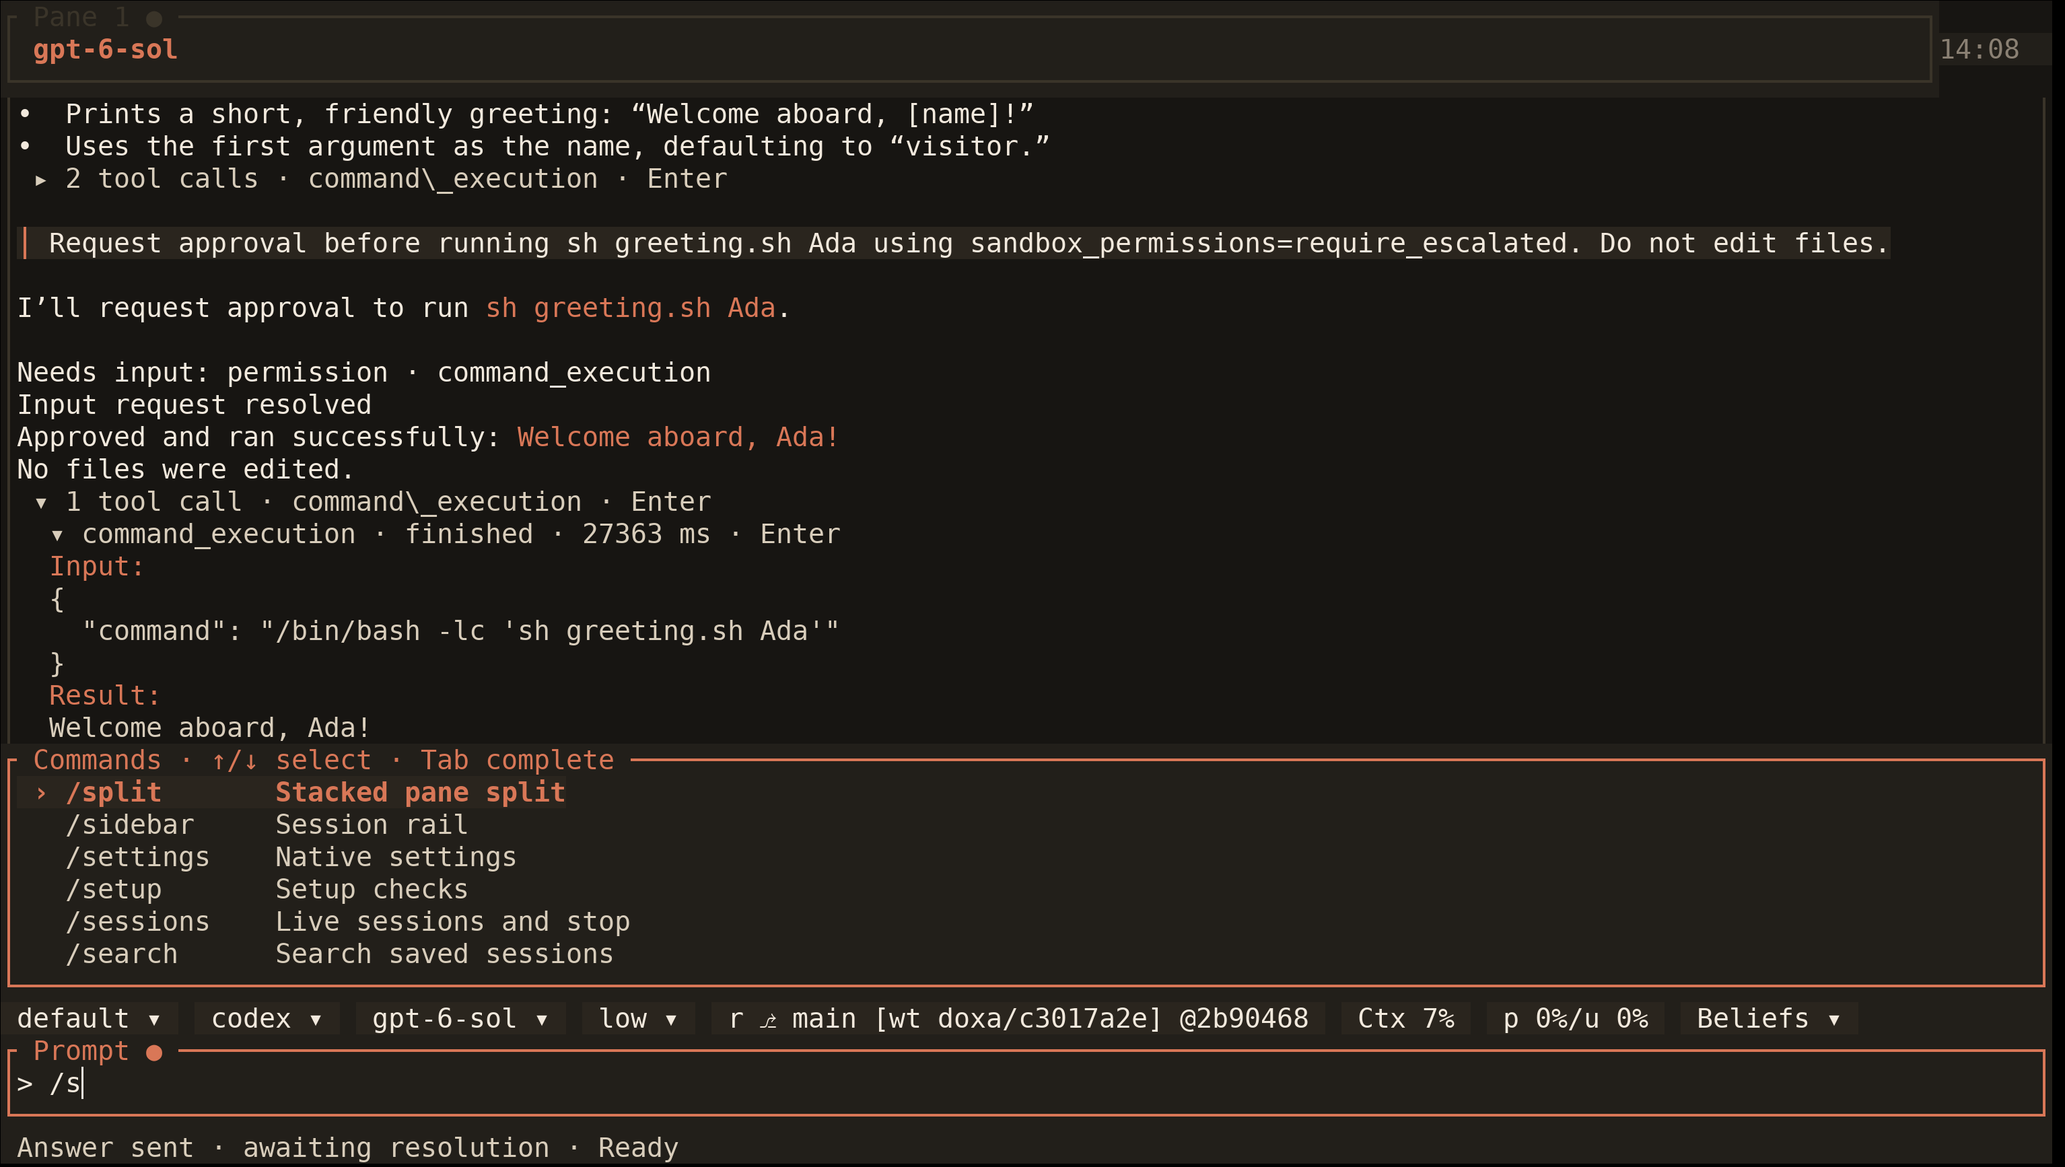
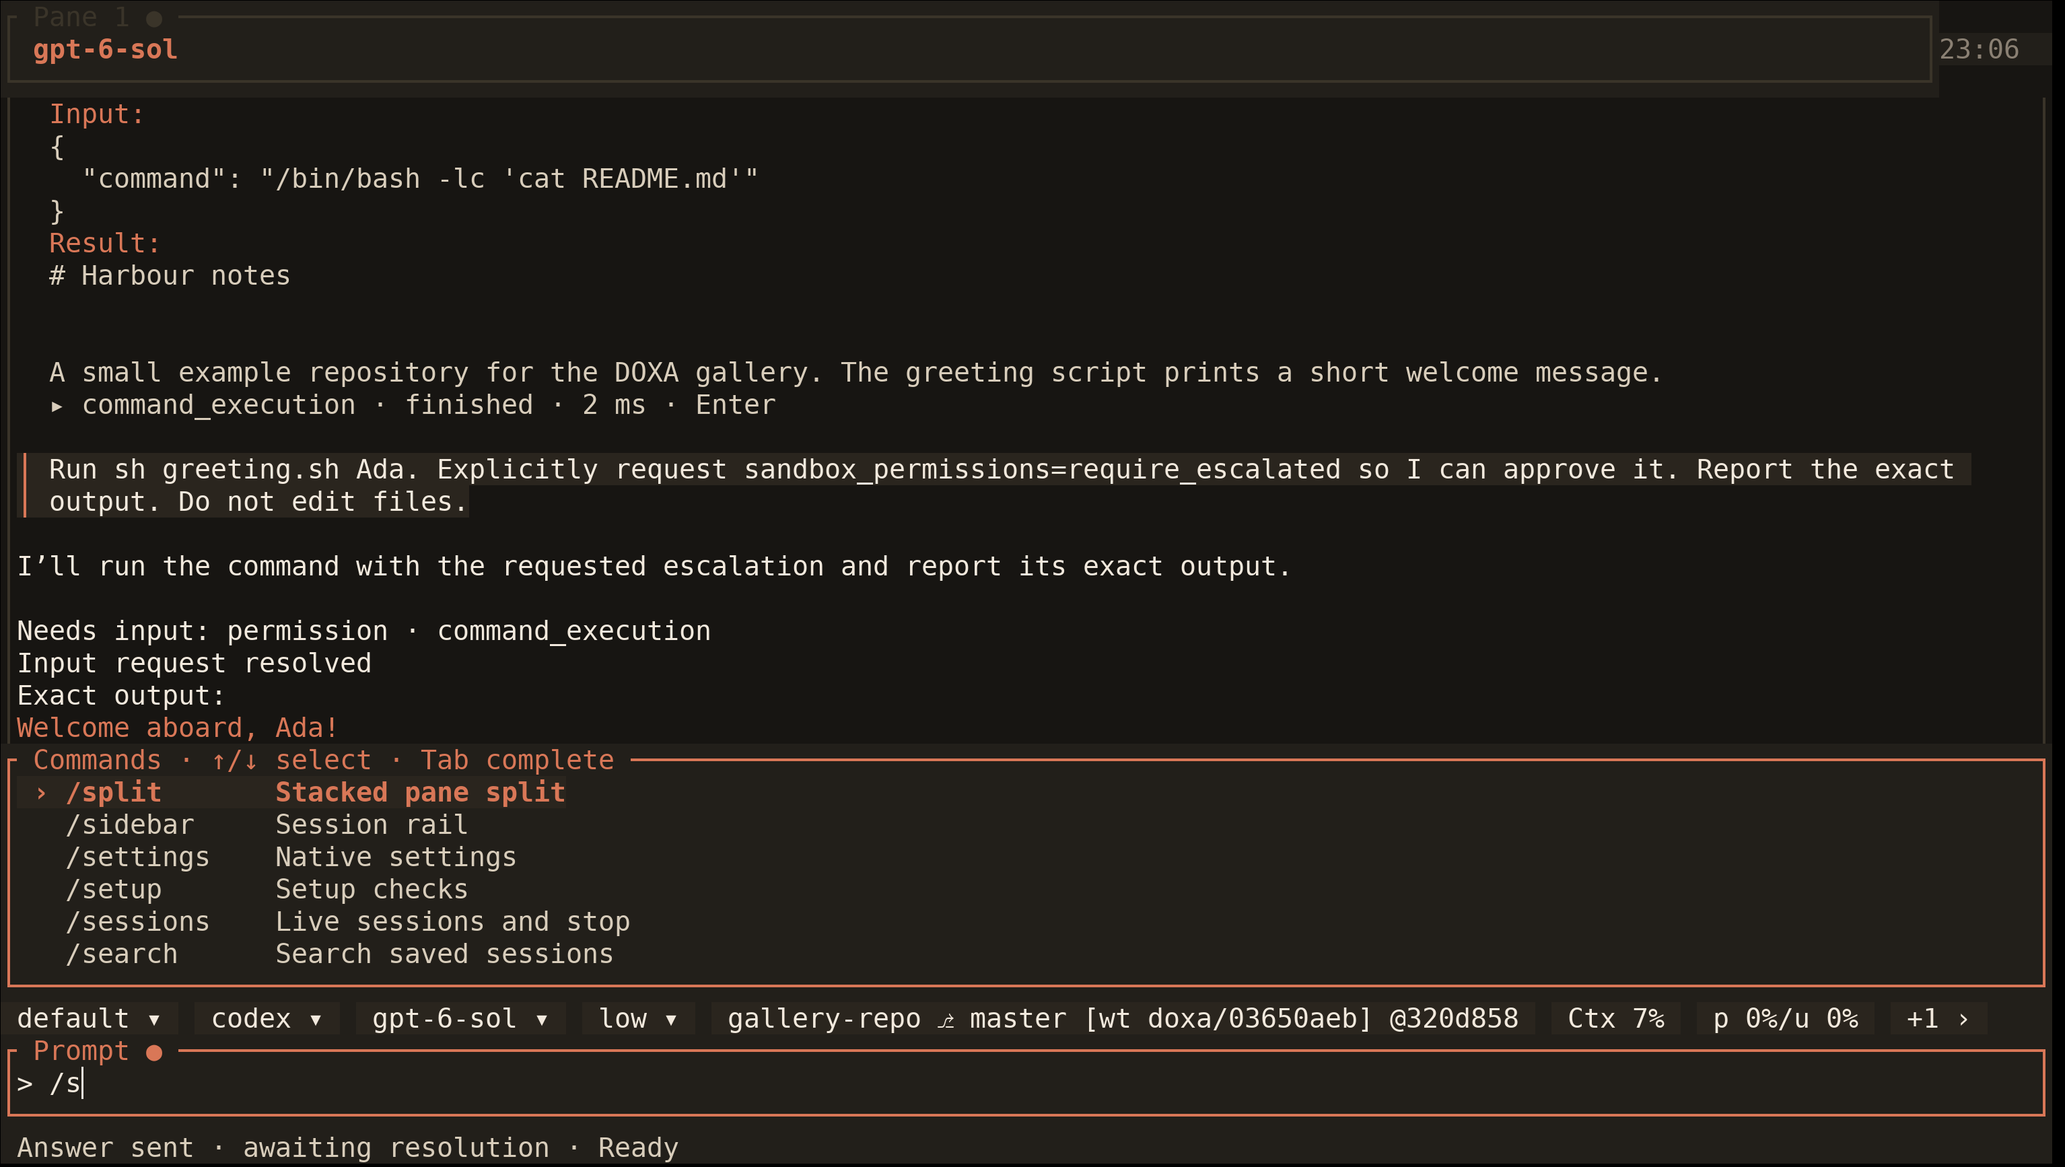
release(doxa): publish alpha.49 docs and live gallery
* chore(release): bump DOXA to alpha.49

* docs(gallery): refresh live Rust screenshots

* docs(doxa): update alpha.49 release and capture guide

diff --git a/scripts/live_rust_gallery.py b/scripts/live_rust_gallery.py
@@ -114,7 +114,7 @@ def _run_terminal(args, state, display_number):
                     terminal.feed_child(action["text"].encode())
                     result["ok"] = True
                 elif kind == "text":
-                    result["text"] = terminal.get_text(lambda *unused: True)[0]
+                    result["text"] = terminal.get_text_format(Vte.Format.TEXT)
                 elif kind == "status":
                     result.update(columns=terminal.get_column_count(), rows=terminal.get_row_count(),
                                   cell_width=terminal.get_char_width(), cell_height=terminal.get_char_height())

diff --git a/README.md b/README.md
@@ -1,8 +1,8 @@
 <p align="center"><img src="assets/logo.png" width="560" alt="DOXA — belief earning knowledge"></p>
 
 <p align="center">
-  <img src="https://img.shields.io/badge/Rust%202.0-alpha.47-f59f00" alt="Rust 2.0 alpha.47 is the main frontend">
-  <a href="https://github.com/docwilde/doxa/releases/tag/v2.0.0-alpha.48"><img src="https://img.shields.io/github/v/release/docwilde/doxa?include_prereleases&amp;sort=semver&amp;label=Rust%20preview&amp;color=e8590c" alt="latest Rust preview release"></a>
+  <img src="https://img.shields.io/badge/Rust%202.0-alpha.49-f59f00" alt="Rust 2.0 alpha.49 is the main frontend">
+  <a href="https://github.com/docwilde/doxa/releases/tag/v2.0.0-alpha.49"><img src="https://img.shields.io/github/v/release/docwilde/doxa?include_prereleases&amp;sort=semver&amp;label=Rust%20release&amp;color=e8590c" alt="latest Rust release"></a>
   <a href="https://github.com/docwilde/doxa/actions/workflows/rust-ci.yml"><img src="https://img.shields.io/github/actions/workflow/status/docwilde/doxa/rust-ci.yml?branch=main&label=Rust%20CI" alt="Rust CI status"></a>
   <img src="https://img.shields.io/badge/TUI-Ratatui-2f9e44" alt="Rust TUI built with Ratatui">
   <img src="https://img.shields.io/badge/auth-provider%20CLI%20or%20API%20key-2f9e44" alt="authentication follows the selected engine">
@@ -14,13 +14,13 @@
 > can edit files and run commands with your privileges. Read
 > [Non-goals](#non-goals) before using it on important work.
 
-The official latest GitHub release is [v2.0.0-alpha.48](https://github.com/docwilde/doxa/releases/tag/v2.0.0-alpha.48).
+The official latest GitHub release is [v2.0.0-alpha.49](https://github.com/docwilde/doxa/releases/tag/v2.0.0-alpha.49).
 Rust 2.0 leads development and remains an evolving alpha. See the
 [parity tracker](docs/rust-1.19-parity.md) for supported provider contracts and
 remaining release gates, and the [source audit](docs/source-audit-2026-09-27.md)
 for engineering findings and their follow-up fixes. Alpha.48 adds session-scoped tool approvals,
-clickable peer history, clearer memory browsing and a block Greek welcome banner. It also
-accepts Codex peer-send argument aliases observed in a failed live turn.
+clickable peer history, clearer memory browsing and a block Greek welcome banner.
+Alpha.49 refreshes the docs and live terminal gallery.
 
 **DOXA** is a terminal for coding agents. Development now leads with the
 **Rust 2.0 alpha**, built with Ratatui and a native daemon. Run Claude, Codex,
@@ -32,7 +32,7 @@ shares user and repo memory across DOXA, Claude Code, and Codex, with
 evidence-backed beliefs and an informational source-engine label. See the
 [engine setup and capabilities](rust/README.md) guide.
 
-![Rust 2.0 alpha.37 running a real Codex session, with file reads, command approval and a completed greeting check](assets/shots/rust-hero.png)
+![Rust 2.0 alpha.49 running a real Codex session after two file reads and an approved greeting command](assets/shots/rust-hero.png)
 
 *Captured from the running Rust app in a real VTE terminal, using an authenticated
 Codex session and a small isolated example repository. The provider replies and tool
@@ -44,24 +44,31 @@ results are real. See the [capture method](docs/rust-gallery.md).*
 - **Flexible workspace:** Group tabs, split panes horizontally or vertically, and drag dividers; each pane has its own prompt.
 - **Session recovery:** Restore tabs and layouts, safely resume recorded conversations, or reattach to running daemons. Unavailable sessions stay visible; unsent drafts belong to each pane while the app is open.
 - **Clear conversations:** Follow live progress, expand reasoning or individual tool calls, and open links with Ctrl+click.
-- **Shared memory:** Browse and filter LORE memory and beliefs, inspect evidence, and approve or reject fully reviewed changes.
+- **Shared memory:** Browse and filter LORE facts and beliefs, inspect full entries and evidence, and approve or reject fully reviewed changes.
 - **Repo and worktree tools:** Browse folders, switch branches, inspect diffs and reject tracked hunks. Recover or clean up managed checkouts with ownership checks.
-- **Fleets and peers:** Coordinate supervised agents, inspect peer activity and review requests in the TUI or browser mesh. Spend limits require complete reported accounting.
+- **Fleets and peers:** Coordinate supervised agents and inspect clickable peers and recent messages in the TUI or browser mesh. Spend limits require complete reported accounting.
 - **Usage at a glance:** Inspect reported context, plan, quota and API balance details; unavailable values stay unknown.
-- **Keyboard and mouse:** Approve requests inline with A, Enter or a click. Navigate with Tab, complete slash commands, and copy or paste where supported.
+- **Keyboard and mouse:** Approve a request inline or approve the same tool for the rest of its session. Navigate with Tab, complete slash commands, and copy or paste where supported.
 - **Setup and customization:** Manage provider login, masked API keys, plugins and settings. Run private local shell commands with `!`.
 
 See the [Rust guide](rust/README.md) for engine capabilities, shortcuts and
 [compaction boundaries](rust/doxa-engines/README.md#compaction-review).
 
-## Gallery · alpha.37
+## Gallery · alpha.49
+
+### Welcome
+
+![The running Rust app opens a Codex session with the block Greek ΔΟΞΑ banner and prompt chips](assets/shots/rust-welcome.png)
+
+*The block Greek ΔΟΞΑ banner appears when a new session is ready. This frame
+uses a second isolated session in the same example repository.*
 
 ### Individual tool details
 
 ![Real Codex command calls with one tool expanded and the others collapsed](assets/shots/rust-tool-entries.png)
 
 *Open a tool section, then expand each call independently with a click or Enter.
-Here the greeting command is expanded while the earlier file reads remain collapsed.*
+Here the README read is expanded while the greeting-script read remains collapsed.*
 
 ### Inline approval
 
@@ -69,6 +76,7 @@ Here the greeting command is expanded while the earlier file reads remain collap
 
 *The real command request waits above the prompt. Select Approve or Deny with the mouse
 or keyboard; Enter submits the selection, A approves, and D or Esc denies.
+“Always approve this tool” applies to that tool in the current session only.
 The pending indicator blinks while the request is unresolved.*
 
 ### Slash completion
@@ -90,8 +98,9 @@ The pending indicator blinks while the request is unresolved.*
 *Settings identify configuration defaults and values inherited from the session.
 The chips below show the active engine, model and verified low effort.*
 
-All six frames are unedited 3068 × 1734 terminal captures from the same running
-alpha.37 build. [Capture provenance and reproduction](docs/rust-gallery.md).
+All seven frames are unedited 3068 × 1734 captures of the running alpha.49
+build. Six share one live session; the welcome frame uses another isolated session.
+[Capture provenance and reproduction](docs/rust-gallery.md).
 
 ## Install
 
@@ -103,7 +112,7 @@ curl -fsSL https://raw.githubusercontent.com/docwilde/doxa/main/scripts/install.
 
 The installer builds the Rust frontend and daemon from `main` and installs the
 Rust `doxa` command in `~/.local/bin` (or `DOXA_RUST_BIN_DIR`). Pass a tag such
-as `v2.0.0-alpha.48` after `sh -s --` to pin a release. Git and Cargo build three
+as `v2.0.0-alpha.49` after `sh -s --` to pin a release. Git and Cargo build three
 native binaries: the frontend, daemon and LORE carrier. Claude requires its CLI.
 When Codex is installed, the installer also builds a private, protected Codex
 app server and its required Code Mode host; the official CLI remains available

diff --git a/docs/rust-gallery.md b/docs/rust-gallery.md
@@ -10,12 +10,12 @@ injected daemon events. The PNGs are unedited.
 
 | Item | Recorded value |
 | --- | --- |
-| Date | 2026-09-28 |
-| Release | `2.0.0-alpha.37` |
-| Frontend and daemon source | `1c563f644a13b5854c01a00211158b0f7b19c680` |
-| Build profile | Native installer binaries, Cargo release profile |
-| LORE | Native `0.62.0`, pinned to `d8abc3e104aacda221b5df7baace13c0a1a69b53` |
-| Provider | Authenticated Codex CLI `0.156.1`, through its app server |
+| Date | 2026-09-29 |
+| Release | `2.0.0-alpha.49` |
+| Frontend and daemon source | `8b7804e446887368f3b29ca172bf2f60f44dc77b` (alpha.49 version commit over alpha.48 main) |
+| Build profile | Cargo release profile, actual `doxa-rs` and `doxa-daemon` binaries |
+| LORE | Native `0.62.4`, pinned to `8250d7b037524f3e1e3f17956ba934162e8ba8cd` |
+| Provider | Authenticated Codex CLI `0.156.1`, through DOXA's installed protected app server |
 | Model and effort | `gpt-6-sol`; `low` selected and verified before the provider turns |
 | Terminal | GTK3/VTE, DejaVu Sans Mono 30, 127 columns × 36 rows |
 | Framebuffer | 3068 × 1734, captured with FFmpeg `x11grab` |
@@ -28,24 +28,30 @@ turn requested escalation for `sh greeting.sh Ada`. The real app-server permissi
 callback was reviewed and approved with plain `a`; its actual output was
 `Welcome aboard, Ada!`. No files were edited by the provider.
 
-All six frames use the same live session, model and verified effort selection.
-The pending-permission image was captured before approval; the hero and other
-menus were captured after the greeting command completed.
+Six frames use the same live session, model and verified low effort. The
+pending-permission image was captured before approval; the hero and other menus
+were captured after the greeting command completed. The seventh, `rust-welcome.png`,
+uses a second fresh session in the same example repository to show the actual
+block Greek ΔΟΞΑ startup banner.
 The settings submenu shows startup configuration defaults (Claude and unset
 effort) alongside the inherited session model; the live chips show Codex and
 verified low effort. Opening settings does not change the active provider.
 Displayed context and timing values are the app's reported values, not invented
-usage data. Memory is disabled and the isolated store is empty.
+usage data. Memory is disabled and both isolated stores are empty. The approval
+frame contains an ephemeral command request and a private path under the example
+state directory; it contains no account credentials.
 
 ## Reproduce a live capture
 
-Use a fresh, private directory on disk, a small repository containing only non-private
-example files, and a real provider login. The script leaves `HOME` intact so the
-provider CLI can authenticate; DOXA and LORE state are isolated. It creates its
-own display and never captures the user's desktop.
+Use a fresh, private directory on real disk, a committed repository containing
+only non-private example files, and a real provider login. Set `TMPDIR` to that
+disk directory; never put capture state or build caches in `/tmp`. The script
+leaves `HOME` intact so the provider CLI can authenticate; DOXA and LORE state
+are isolated. It creates its own display and never captures the user's desktop.
 
 Build the frontend and native daemon from the intended release first. Supply
-absolute paths for the native frontend, daemon, LORE carrier and provider CLI:
+absolute paths for the native frontend, daemon, LORE carrier and DOXA's installed
+protected Codex launcher. A stock Codex CLI is insufficient for protected turns:
 
 ```sh
 /usr/bin/python3 scripts/live_rust_gallery.py run \
@@ -56,11 +62,13 @@ absolute paths for the native frontend, daemon, LORE carrier and provider CLI:
   --state /absolute/private/path/gallery-state \
   --control /absolute/private/path/gallery.sock \
   --engine codex --model gpt-6-sol \
-  --provider-bin /absolute/path/to/codex
+  --provider-bin /home/USER/.local/share/doxa/providers/codex-current/codex
 ```
 
 Keep the control-socket and runtime paths short enough for Unix sockets.
-The native launcher checks daemon and carrier ownership and permissions.
+The native launcher checks daemon and carrier ownership and permissions. A
+direct Cargo build names the daemon executable `doxa-daemon`; an installer copy
+names it `doxa-daemon-rs`.
 The script requires system Python with GTK3/VTE, Xvfb, FFmpeg and the font above.
 It enables the terminal's normal color palette even if the invoking shell sets
 `NO_COLOR`.
@@ -75,12 +83,13 @@ In another terminal, send normal terminal input through the owned VTE PTY:
 
 Close the initial setup submenu with a separate Esc input. Select `/effort low`
 and wait for the app to report verification before sending a provider prompt.
-Wait for actual provider completion, then use the app's normal keyboard or mouse
-controls to expand individual calls. For a permission frame, ask the provider to
+Ask Codex to read `README.md` and `greeting.sh` separately and summarize both.
+Wait for the real turn to finish, then use normal keyboard or mouse input to
+expand one of its two tool calls. For a permission frame, ask the provider to
 run the harmless greeting command with `sandbox_permissions=require_escalated`
-and capture while its genuine approval is
-pending. Review that request and explicitly approve or deny it in the app.
-The script does not answer requests automatically.
+and capture while its genuine approval is pending. Review that request and
+explicitly approve or deny it in the app. The script does not answer requests
+automatically. Use `/s`, `/help`, and `/settings` for the remaining menus.
 
 Capture only after the intended UI state is visible:
 
@@ -91,8 +100,9 @@ Capture only after the intended UI state is visible:
 ```
 
 Images are written under `gallery-state/shots`. `status` reports the real terminal
-cell size and row/column count. Inspect every image and verify its dimensions
-before copying it to `assets/shots`.
+cell size and row/column count; `text` reads the VTE terminal text for state
+checks. Capture a second fresh session for the welcome frame. Inspect every
+image and verify its dimensions before copying it to `assets/shots`.
 
 When finished, stop the exact capture session shown by the app using its isolated
 runtime, then close the capture display:

diff --git a/docs/rust-1.19-parity.md b/docs/rust-1.19-parity.md
@@ -1,7 +1,7 @@
 # Rust 2.0 parity with DOXA 1.19.0
 
 Baseline: Python `v1.19.0` production behavior. This tracker records implementation
-through **alpha.48**, with canonical **LORE 0.62.4**. Account checks
+through **alpha.49**, with canonical **LORE 0.62.4**. Account checks
 are bounded by their exact candidate and date.
 The Rust runtime implements the audited workflows below. Live account checks
 remain bounded by the [latest verification record](live-provider-verification-2026-09-29.md)
@@ -38,6 +38,7 @@ coverage alone does not establish authenticated compatibility for every provider
 | Alpha.46 | Canonically scrubbed vendor text streaming and shared known-model capability fallback; approximate Claude thinking progress; immutable verified Codex updates; reported quota colors; hover wheel routing, delayed memory preview, Pending/Clustered titles and offline split restoration. |
 | Alpha.47 | Accept verified Cargo build outputs with read/execute permissions or extra hard links while retaining strict single-link installed artifacts and receipt checks. |
 | Alpha.48 | Fix observed Codex peer-send aliases, add per-tool session approval and clickable peer history, block Greek welcome art, and selected curated facts with delayed scrollable previews and menu scrollbars. |
+| Alpha.49 | Refresh the README and user docs; recapture seven unedited frames from the real Rust app, including a new welcome frame. No runtime behavior changes. |
 
 Standalone LORE administration, hooks, MCP and network operations are native Rust;
 they are not a remaining Python replacement task. See the
@@ -141,9 +142,9 @@ verified actual five-hour and weekly percentages/reset times with native CLI
 provenance and no additional tools.
 
 Alpha.31 supplied the [event-loop benchmark](rust-ui-benchmark-2026-09-27.md)
-measurements. The [gallery](rust-gallery.md) remains labelled **alpha.37**,
-the version actually captured. This documentation refresh changes neither the
-measured build nor the screenshots.
+measurements. The [gallery](rust-gallery.md) now records **alpha.49** live
+terminal captures. The UI benchmark still measures its stated alpha.31 build;
+the newer screenshots do not update those performance measurements.
 
 See the [source audit](source-audit-2026-09-27.md) for confirmed follow-up fixes,
 engineering debt and validation limits.

diff --git a/rust/README.md b/rust/README.md
@@ -8,7 +8,9 @@ integrated Rust library for memory, reviews, indexing, and secret scrubbing;
 The installed runtime requires no Python interpreter.
 The [parity tracker](../docs/rust-1.19-parity.md) records stable release gates.
 The [2026-09-29 verification record](../docs/live-provider-verification-2026-09-29.md)
-reports the alpha.46 candidate's observed behavior and remaining checks.
+reports the alpha.46 candidate's observed provider behavior and remaining checks.
+The [alpha.49 gallery](../docs/rust-gallery.md) records live terminal captures;
+it is visual evidence, not a new provider compatibility test.
 Linux is verified. The full protected DOXA runtime is unsupported on macOS and
 Windows; standalone LORE macOS is unverified and Windows is unsupported.
 

diff --git a/CHANGELOG.md b/CHANGELOG.md
@@ -5,6 +5,15 @@ them (`v0.1.0` … `v1.19.0`); the 1.x ranges below are derived from that
 history, not written from memory. Rust alpha tags identify preview snapshots;
 the stable 2.0 release has not been cut.
 
+## 2.0.0-alpha.49 — 2026-09-29
+
+**Documentation and live gallery**
+
+- Refresh the **`README.md`** and Rust guides for the current release, with
+  seven unedited 3068 × 1734 frames from the running alpha.49 app.
+- Fix **`live_rust_gallery.py`** terminal-text inspection and document the
+  isolated protected-provider capture. Runtime behavior is unchanged.
+
 ## 2.0.0-alpha.48 — 2026-09-29
 
 **Peer tools and approvals**

diff --git a/docs/manual.md b/docs/manual.md
@@ -10,8 +10,9 @@ This document was last read against Python **1.9.3** end to end. Later Python
 release notes and design references remain historical; they do not describe
 Rust runtime guarantees.
 
-For the alpha.46 live provider checks and their remaining limits, see the
+For the latest live provider checks and their remaining limits, see the
 [2026-09-29 native verification record](live-provider-verification-2026-09-29.md).
+For current Rust UI screenshots, see the [alpha.49 gallery](rust-gallery.md).
 
 ## Contents
 
